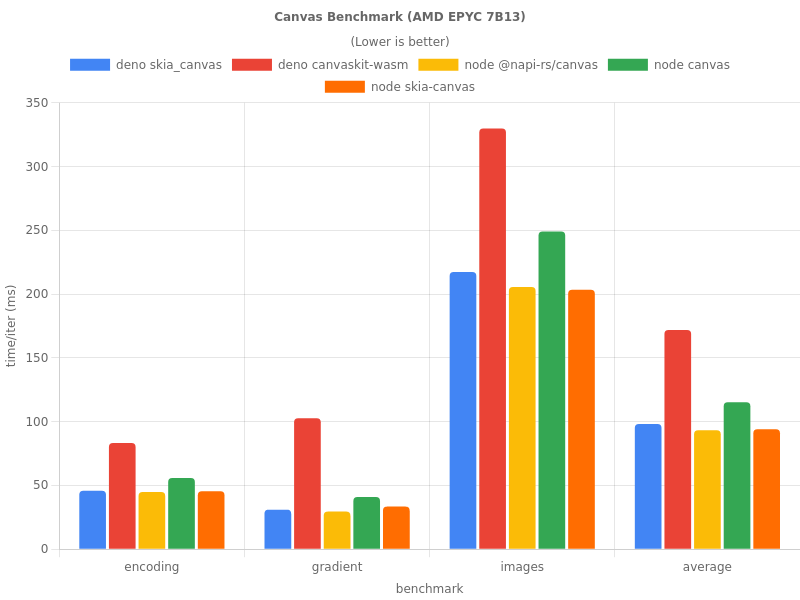
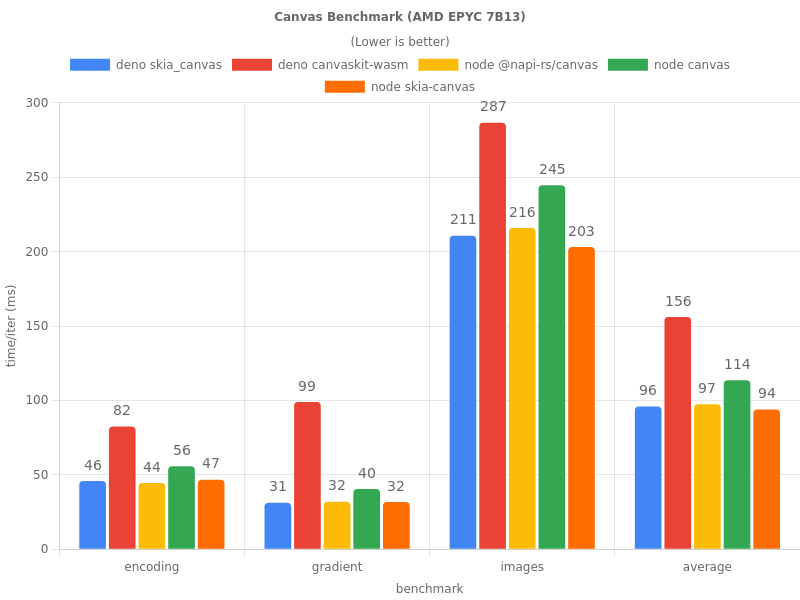
x

diff --git a/bench/main.js b/bench/main.js
@@ -1,16 +1,13 @@
 import { createCanvas } from "../mod.ts";
-// @deno-types="https://cdn.jsdelivr.net/npm/chart.js@3.9.1/types/index.esm.d.ts"
-import {
-  Chart,
-  registerables,
-} from "https://cdn.jsdelivr.net/npm/chart.js@3.9.1/dist/chart.esm.js";
+import "https://cdn.jsdelivr.net/npm/chart.js@3.9.1/dist/chart.min.js";
+import "https://cdn.jsdelivr.net/npm/chartjs-plugin-datalabels@2.0.0/dist/chartjs-plugin-datalabels.min.js";
 
-Chart.register(...registerables);
+Chart.register(ChartDataLabels);
 
 console.log("Running Deno benchmark...");
 const denoOut = new TextDecoder().decode(
   Deno.spawnSync(Deno.execPath(), {
-    args: ["task", "bench"],
+    args: ["task", "bench-deno"],
     env: {
       NO_COLOR: "1",
     },
@@ -120,6 +117,15 @@ const _chart = new Chart(ctx, {
       subtitle: {
         display: true,
         text: `(Lower is better)`,
+      },
+      datalabels: { // This code is used to display data values
+        anchor: "end",
+        align: "top",
+        formatter: Math.round,
+        font: {
+          weight: "normal",
+          size: 14,
+        },
       },
     },
     scales: {

diff --git a/src/context2d.ts b/src/context2d.ts
@@ -124,6 +124,8 @@ enum CTextAlign {
   left = 0,
   center = 1,
   right = 2,
+  start = 3,
+  end = 4,
 }
 
 enum CTextDirection {

diff --git a/native/src/context2d.cpp b/native/src/context2d.cpp
@@ -28,8 +28,8 @@ sk_context_state* create_default_state() {
   state->transform->setIdentity();
   state->imageSmoothingEnabled = true;
   state->imageSmoothingQuality = kLow;
-  state->textAlign = kLeft;
-  state->textBaseline = kTop;
+  state->textAlign = kStart;
+  state->textBaseline = kAlphabetic;
   state->direction = kLTR;
   state->font = new Font();
   state->font->size = 10;
@@ -393,6 +393,12 @@ extern "C" {
         break;
       case TextAlign::kRight:
         paintX = x - lineWidth;
+        break;
+      case TextAlign::kStart:
+        paintX = context->state->direction == TextDirection::kLTR ? x : x - lineWidth;
+        break;
+      case TextAlign::kEnd:
+        paintX = context->state->direction == TextDirection::kLTR ? x - lineWidth : x;
         break;
       }
       auto needScale = lineWidth > maxWidth;

diff --git a/native/include/common.hpp b/native/include/common.hpp
@@ -37,7 +37,9 @@ typedef struct Style {
 enum TextAlign {
   kLeft,
   kCenter,
-  kRight
+  kRight,
+  kStart,
+  kEnd,
 };
 
 enum TextBaseline {

diff --git a/README.md b/README.md
@@ -33,7 +33,7 @@ ctx.lineTo(250, 140);
 ctx.closePath();
 ctx.stroke();
 
-canvas.save("./image.png");
+canvas.save("image.png");
 ```
 
 ## Usage
@@ -72,6 +72,8 @@ For non-standard APIs, refer to the API docs mentioned above.
 ## Benchmarks
 
 ![Benchmark Results](./bench/results.png)
+
+Source: [bench/main.js](./bench/main.js)
 
 ## Building
 
